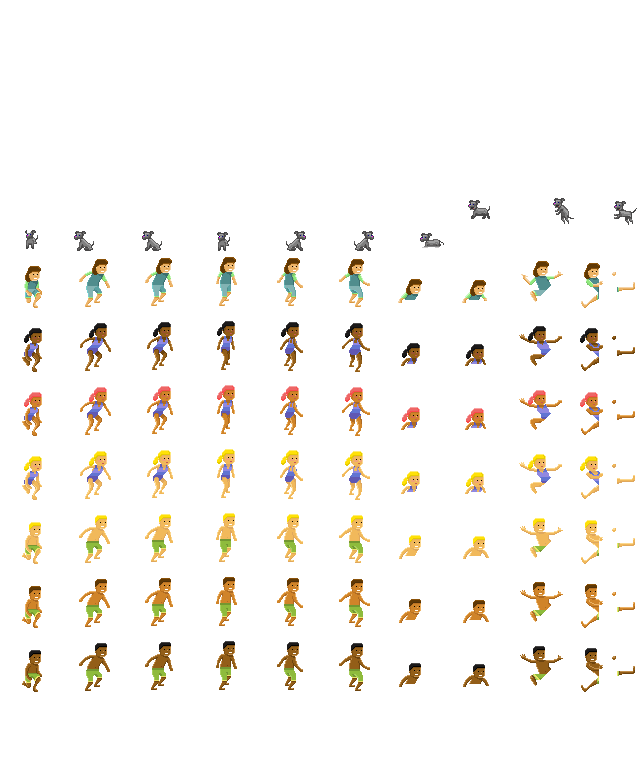
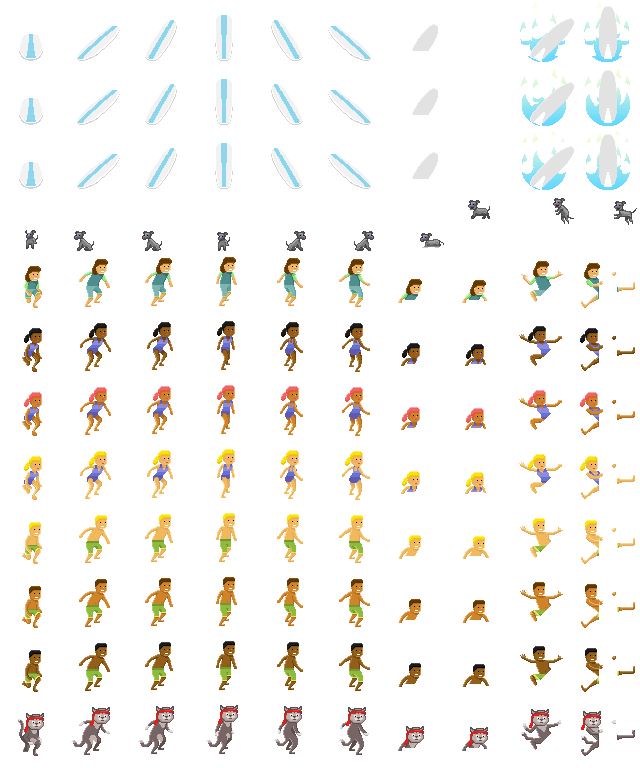
fix

diff --git a/resources/js/surf.bundle.js b/resources/js/surf.bundle.js
@@ -1011,33 +1011,38 @@
           }
           // Draw player
           drawPlayerSprite(
-            poseIndex,
-            timeElapsed = 0,
-            xPos = 0,
-            yPos = 0,
-            scale = 1,
-          ) {
-            // Retrieve player sprite sheet data
-            const playerSheet = be.sys.sheet.player;
-            // Get the pose data: if the player is "caught," use the end pose, otherwise use the pose corresponding to poseIndex
-            const poseData = te.sys.game.caught
-              ? playerSheet.poseData.end
-              : playerSheet.poseData[poseIndex];
-            // Calculate the current frame based on time and FPS (mod 3 for a 3-frame animation loop)
-            const frameIndex = Math.floor(timeElapsed * playerSheet.fps) % 3;
-            // Draw the player sprite using the calculated frame and pose data
-            this.drawScaled(
-              be.sys.playerSprite, // The actual sprite image
-              playerSheet, // The player sprite sheet containing frame data
-              xPos, // X-coordinate where the sprite is drawn
-              yPos, // Y-coordinate where the sprite is drawn
-              {
-                x: poseData, // X position of the current pose in the sprite sheet
-                y: playerSheet.mount[frameIndex], // Y position of the current frame in the sprite sheet
-              },
-              scale, // Scale factor for resizing the sprite
-            );
-          }
+                poseIndex,
+                timeElapsed = 0,
+                xPos = 0,
+                yPos = 0,
+                scale = 1,
+              ) {
+                // Check if the character is 7, if so, do not draw the player
+                if (te.sys.session.settings.character === 7) {
+                  console.log('player not rendering')
+                  return;
+                }
+                // Retrieve player sprite sheet data
+                const playerSheet = be.sys.sheet.player;
+                // Get the pose data: if the player is "caught," use the end pose, otherwise use the pose corresponding to poseIndex
+                const poseData = te.sys.game.caught
+                  ? playerSheet.poseData.end
+                  : playerSheet.poseData[poseIndex];
+                // Calculate the current frame based on time and FPS (mod 3 for a 3-frame animation loop)
+                const frameIndex = Math.floor(timeElapsed * playerSheet.fps) % 3;
+                // Draw the player sprite using the calculated frame and pose data
+                this.drawScaled(
+                  be.sys.playerSprite, // The actual sprite image
+                  playerSheet, // The player sprite sheet containing frame data
+                  xPos, // X-coordinate where the sprite is drawn
+                  yPos, // Y-coordinate where the sprite is drawn
+                  {
+                    x: poseData, // X position of the current pose in the sprite sheet
+                    y: playerSheet.mount[frameIndex], // Y position of the current frame in the sprite sheet
+                  },
+                  scale, // Scale factor for resizing the sprite
+                );
+              }
 
           drawPlayerMenu(e, t, s = 0, i = 0, a = 1) {
             const o = be.sys.sheet.player,
@@ -2802,7 +2807,7 @@
               case "mode":
                 this.notifyContent.textContent = Z.pz.getStringF("theme");
                 Z.pz.getString(s + "Title");
-                this.notifyContent.textContent = "Test";
+                // this.notifyContent.textContent = "Test";
                 break;
               case "theme":
                 this.notifyContent.textContent = Z.pz.getStringF(
@@ -8617,25 +8622,27 @@
                     e.unit > 100 && ue.sys.sendNotification("score"));
             }
           }
-          changeCharacter(e, t = !1) {
-            t &&
-              !be.sys.selectionList.includes(be.sys.characterList[e]) &&
-              be.sys.selectionList.push(be.sys.characterList[e]);
-            const s = be.sys.selectionList;
-            t ||
-              (e =
-                (s.length + te.sys.session.settings.character + e) % s.length),
-              (this.skins.render = []);
-            const i = this.skins.zoom.length;
-            for (let t = 0; t < i; t++) {
-              const a = (s.length + e + (t - Math.floor(i / 2))) % s.length;
-              this.skins.render[t] = a;
-            }
-            (te.sys.session.settings.character = e),
-              te.sys.saveSessionSettings(),
-              be.sys.createPlayerSprite(),
-              Me.sys.setVibration("small");
-          }
+          changeCharacter(characterIndex, isNew = false) {
+                const { selectionList, characterList } = be.sys;
+                const { settings } = te.sys.session;
+                if (isNew && !selectionList.includes(characterList[characterIndex])) {
+                  selectionList.push(characterList[characterIndex]);
+                }
+                const selectedCharacters = selectionList;
+                if (!isNew) {
+                  characterIndex = (selectedCharacters.length + settings.character + characterIndex) % selectedCharacters.length;
+                }
+                this.skins.render = [];
+                const zoomLength = this.skins.zoom.length;
+                for (let i = 0; i < zoomLength; i++) {
+                  const index = (selectedCharacters.length + characterIndex + (i - Math.floor(zoomLength / 2))) % selectedCharacters.length;
+                  this.skins.render[i] = index;
+                }
+                settings.character = characterIndex;
+                te.sys.saveSessionSettings();
+                be.sys.createPlayerSprite();
+                Me.sys.setVibration("small");
+              }
           routeAction(e, t = !1) {
             if (
               !(
